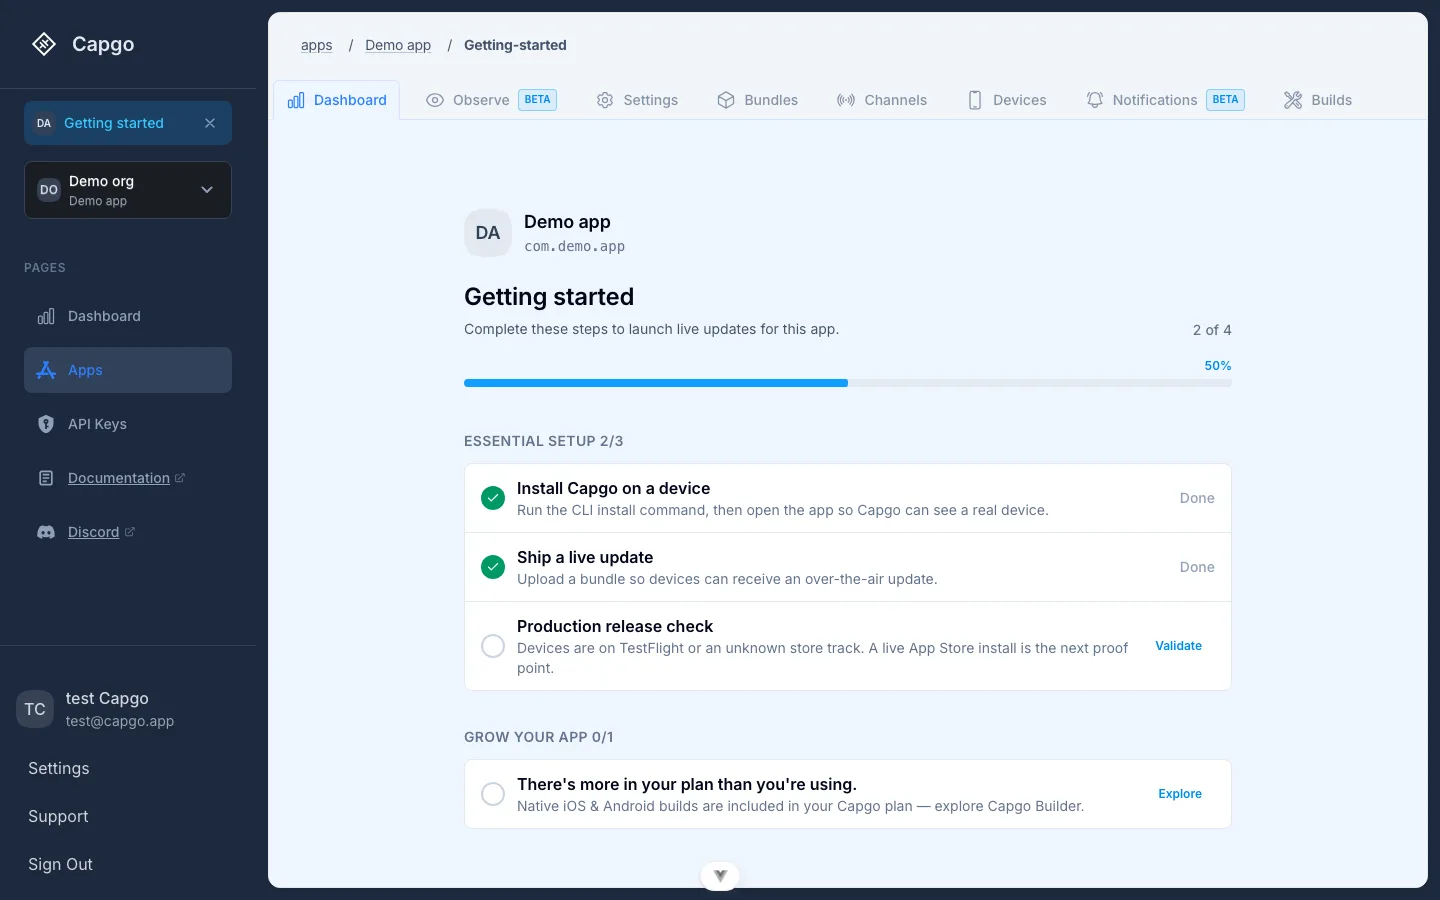
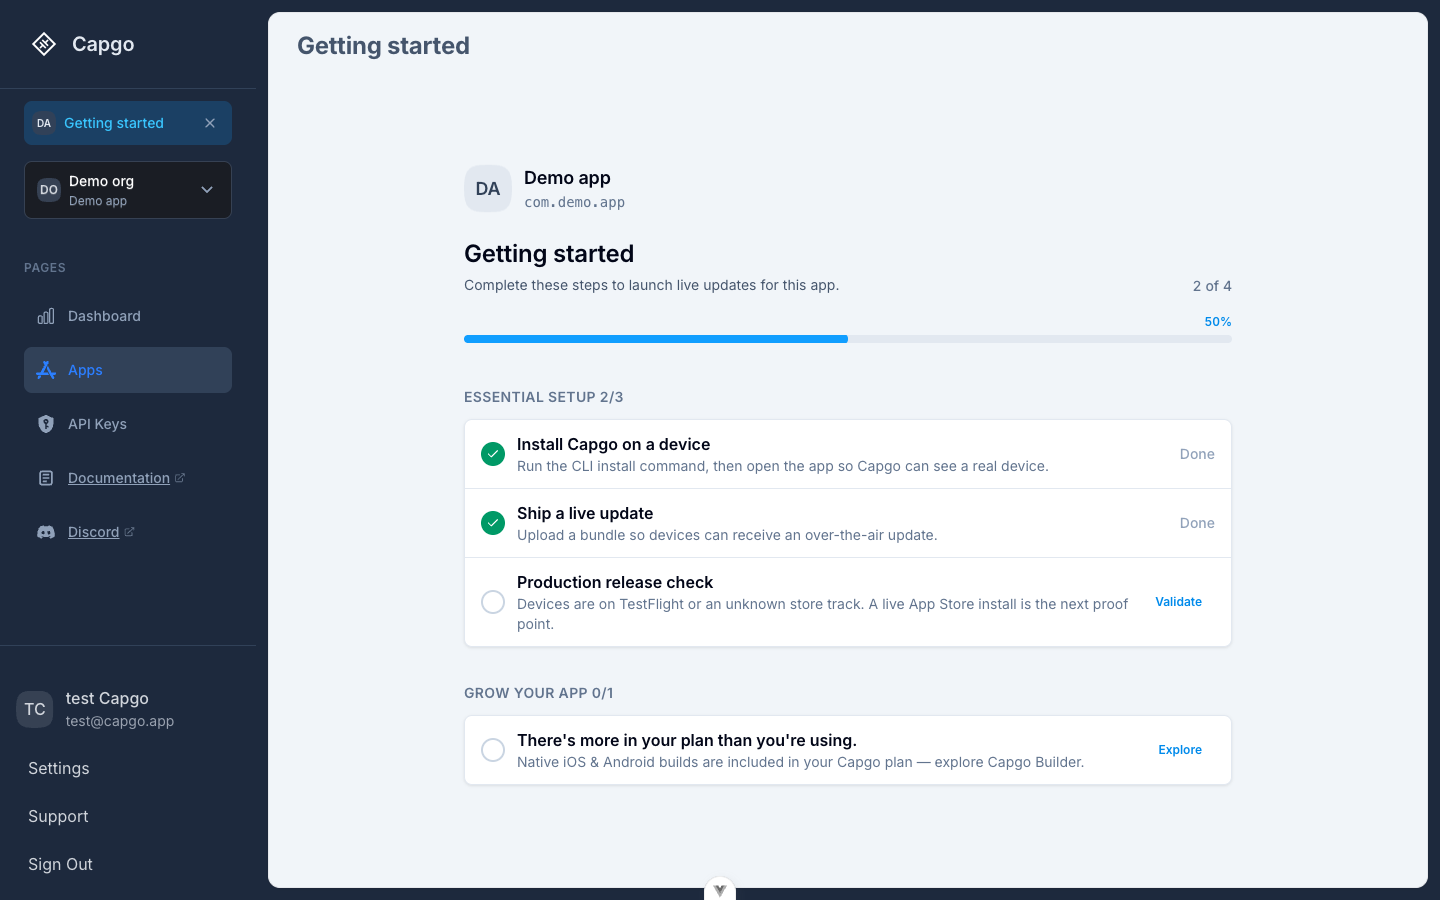
fix(frontend): drop app tabs on Getting Started
Setup is not an in-app section, so Dashboard/Bundles chrome
does not belong there. Checklist already works in light and dark.

diff --git a/src/pages/app/[app].getting-started.vue b/src/pages/app/[app].getting-started.vue
@@ -20,7 +20,7 @@ const supabase = useSupabase()
 const organizationStore = useOrganizationStore()
 const { id, app, isLoading } = useAppPage({
   routeName: '/app/[app].getting-started',
-  navTitle: '',
+  navTitle: t('getting-started'),
 })
 
 const storeModal = useTemplateRef<{ openModal: () => void }>('storeModal')
@@ -95,9 +95,14 @@ function runStep(step: GettingStartedStep) {
   builderModalOpen.value = true
 }
 
-watch(() => id.value, (appId) => {
-  if (appId)
-    void checkBuilderDone(appId)
+watch(() => id.value, async (appId) => {
+  if (!appId)
+    return
+  await organizationStore.awaitInitialLoad()
+  const appOrganization = organizationStore.getOrgByAppId(appId)
+  if (appOrganization && organizationStore.currentOrganization?.gid !== appOrganization.gid)
+    organizationStore.setCurrentOrganization(appOrganization.gid)
+  void checkBuilderDone(appId)
 }, { immediate: true })
 </script>
 
@@ -202,7 +207,7 @@ watch(() => id.value, (appId) => {
               {{ essentialDoneCount }}/{{ essentialSteps.length }}
             </span>
           </summary>
-          <ul class="divide-y divide-slate-200 rounded-lg border border-slate-200 bg-white dark:divide-slate-800 dark:border-slate-800 dark:bg-slate-950">
+          <ul class="divide-y divide-slate-200 rounded-lg border border-slate-200 bg-white shadow-sm dark:divide-white/10 dark:border-white/10 dark:bg-slate-800 dark:shadow-none dark:inset-ring dark:inset-ring-white/5">
             <li
               v-for="step in essentialSteps"
               :key="step.id"
@@ -256,7 +261,7 @@ watch(() => id.value, (appId) => {
               {{ growDoneCount }}/{{ growSteps.length }}
             </span>
           </summary>
-          <ul class="divide-y divide-slate-200 rounded-lg border border-slate-200 bg-white dark:divide-slate-800 dark:border-slate-800 dark:bg-slate-950">
+          <ul class="divide-y divide-slate-200 rounded-lg border border-slate-200 bg-white shadow-sm dark:divide-white/10 dark:border-white/10 dark:bg-slate-800 dark:shadow-none dark:inset-ring dark:inset-ring-white/5">
             <li
               v-for="step in growSteps"
               :key="step.id"
@@ -312,8 +317,3 @@ watch(() => id.value, (appId) => {
     />
   </AppPageFrame>
 </template>
-
-<route lang="yaml">
-meta:
-  layout: app
-</route>

diff --git a/tests/display-app-name-cache.unit.test.ts b/tests/display-app-name-cache.unit.test.ts
@@ -120,4 +120,14 @@ describe('display app-name lookups', () => {
 
     expect(mockFrom).not.toHaveBeenCalled()
   })
+
+  it('keeps Getting Started out of the in-app breadcrumb trail', async () => {
+    const { useDisplayStore } = await import('../src/stores/display.ts')
+    const display = useDisplayStore()
+
+    display.updatePathTitle('/app/com.demo.app/getting-started')
+
+    expect(display.pathTitle).toEqual([])
+    expect(mockFrom).not.toHaveBeenCalled()
+  })
 })

diff --git a/src/stores/display.ts b/src/stores/display.ts
@@ -139,6 +139,12 @@ export const useDisplayStore = defineStore('display', () => {
 
     const breadcrumbs: BreadcrumbItem[] = []
 
+    // Getting Started is not an in-app section — no app tabs, no app crumbs.
+    if (splitPath[0] === 'app' && splitPath[2] === 'getting-started') {
+      pathTitle.value = []
+      return
+    }
+
     // App flow: Apps / <AppName> / <Section>
     if (splitPath[0] === 'app' && splitPath[1]) {
       const appId = splitPath[1]

diff --git a/playwright/e2e/compatibility-events.spec.ts b/playwright/e2e/compatibility-events.spec.ts
@@ -123,6 +123,7 @@ test.describe('Compatibility events', () => {
     const storeStep = page.locator('[data-test="getting-started-step-store_release"]')
     const modal = page.getByRole('dialog')
     await expect(page.locator('[data-test="getting-started-page"]')).toBeVisible()
+    await expect(page.getByRole('button', { name: /^bundles$/i })).toHaveCount(0)
     await expect(storeStep).toBeVisible()
     await expect(modal).not.toBeVisible()
 
